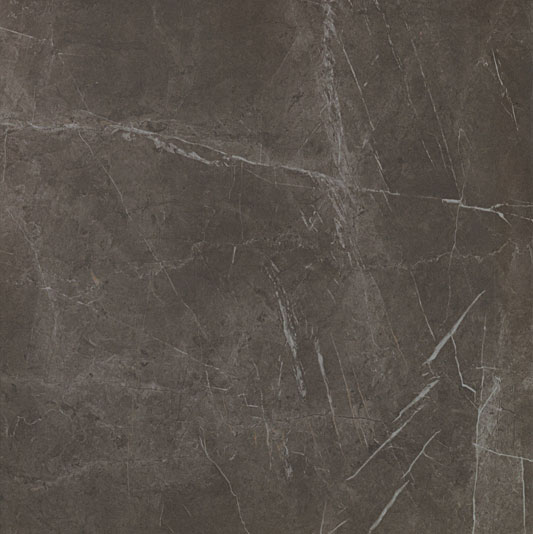
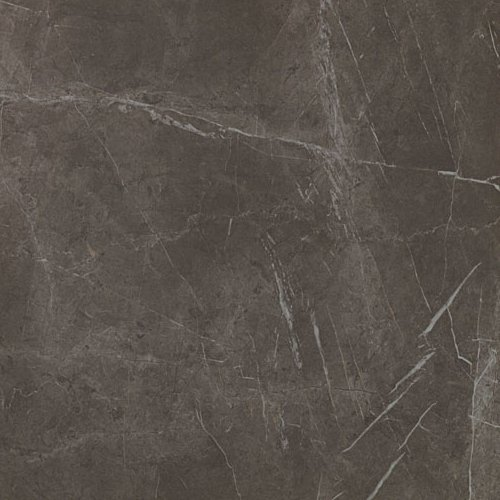
DA migliorare la Camera

diff --git a/GLwidget.cpp b/GLwidget.cpp
@@ -58,7 +58,7 @@ GLWidget::GLWidget(CGrCamera* myCamera, QWidget *parent)
     , geometries(nullptr)
     , camera(myCamera)
     , cubeTexture(nullptr)
-    //, roomTexture(nullptr)
+    , roomTexture(nullptr)
     , zNear(0.1)
     , zFar(1300.0)
 {
@@ -211,20 +211,7 @@ GLWidget::initTextures() {
     const QImage negy = QImage(":/Pavimento.jpg").convertToFormat(QImage::Format_RGBA8888);
     const QImage posz = QImage(":/Pietra.jpg").convertToFormat(QImage::Format_RGBA8888);
     const QImage negz = QImage(":/Pietra.jpg").convertToFormat(QImage::Format_RGBA8888);
-/*
-    glGenTextures(1, &roomTexture);
-    glBindTexture(GL_TEXTURE_CUBE_MAP, roomTexture);
-    glTexImage2D(GL_TEXTURE_CUBE_MAP_POSITIVE_X, 0, GL_RGBA, posx.width(), posx.height(), 0, GL_RGBA, GL_UNSIGNED_BYTE, (void*) posx.bits());
-    glTexImage2D(GL_TEXTURE_CUBE_MAP_POSITIVE_Y, 0, GL_RGBA, posx.width(), posx.height(), 0, GL_RGBA, GL_UNSIGNED_BYTE, (void*) posy.bits());
-    glTexImage2D(GL_TEXTURE_CUBE_MAP_POSITIVE_Z, 0, GL_RGBA, posx.width(), posx.height(), 0, GL_RGBA, GL_UNSIGNED_BYTE, (void*) posz.bits());
-    glTexImage2D(GL_TEXTURE_CUBE_MAP_NEGATIVE_X, 0, GL_RGBA, posx.width(), posx.height(), 0, GL_RGBA, GL_UNSIGNED_BYTE, (void*) negx.bits());
-    glTexImage2D(GL_TEXTURE_CUBE_MAP_NEGATIVE_Y, 0, GL_RGBA, posx.width(), posx.height(), 0, GL_RGBA, GL_UNSIGNED_BYTE, (void*) negy.bits());
-    glTexImage2D(GL_TEXTURE_CUBE_MAP_NEGATIVE_Z, 0, GL_RGBA, posx.width(), posx.height(), 0, GL_RGBA, GL_UNSIGNED_BYTE, (void*) negz.bits());
-    glTexParameteri(GL_TEXTURE_CUBE_MAP, GL_TEXTURE_MIN_FILTER, GL_NEAREST);
-    glTexParameteri(GL_TEXTURE_CUBE_MAP, GL_TEXTURE_MAG_FILTER, GL_LINEAR);
-    glTexParameteri(GL_TEXTURE_CUBE_MAP, GL_TEXTURE_WRAP_S, GL_REPEAT);
-    glTexParameteri(GL_TEXTURE_CUBE_MAP, GL_TEXTURE_WRAP_T, GL_REPEAT);
-*/
+
     roomTexture = new QOpenGLTexture(QOpenGLTexture::TargetCubeMap);
     roomTexture->setSize(posx.width(), posx.height(), posx.depth());
     roomTexture->setFormat(QOpenGLTexture::RGBA8_UNorm);
@@ -249,16 +236,16 @@ GLWidget::initTextures() {
                          QOpenGLTexture::RGBA, QOpenGLTexture::UInt8,
                          negz.constBits(), Q_NULLPTR);
 
-    roomTexture->setWrapMode(QOpenGLTexture::ClampToEdge);
-    roomTexture->setMinificationFilter(QOpenGLTexture::LinearMipMapLinear);
-    roomTexture->setMagnificationFilter(QOpenGLTexture::LinearMipMapLinear);
-    roomTexture->generateMipMaps();
-    if(roomTexture->textureId() == 0)
-        exit(EXIT_FAILURE);
+//    roomTexture->setWrapMode(QOpenGLTexture::ClampToEdge);
+//    roomTexture->setMinificationFilter(QOpenGLTexture::LinearMipMapLinear);
+//    roomTexture->setMagnificationFilter(QOpenGLTexture::LinearMipMapLinear);
+//    roomTexture->generateMipMaps();
+//    if(roomTexture->textureId() == 0)
+//        exit(EXIT_FAILURE);
 
 //    roomTexture->setMinificationFilter(QOpenGLTexture::Nearest);
 //    roomTexture->setMagnificationFilter(QOpenGLTexture::Linear);
-//    roomTexture->setWrapMode(QOpenGLTexture::Repeat);
+    roomTexture->setWrapMode(QOpenGLTexture::Repeat);
     glEnable(GL_TEXTURE_CUBE_MAP_SEAMLESS);
 }
 
@@ -298,7 +285,6 @@ GLWidget::paintGL() {
 
     roomVertexBuf.bind();
     roomIndexBuf.bind();
-//    glBindTexture(GL_TEXTURE_CUBE_MAP, roomTexture);
     roomTexture->bind();
     mProgram.bind();
 
@@ -306,14 +292,13 @@ GLWidget::paintGL() {
     int vertexLocation = mProgram.attributeLocation("a_position");
     mProgram.enableAttributeArray(vertexLocation);
     mProgram.setAttributeBuffer("aPosition", GL_FLOAT, 0, 3, sizeof(QVector3D));
-
     mProgram.setUniformValue("uTexture", 0);
 
     model.setToIdentity();
-    model.translate(0.0, 0.0, 0.0);
-    model.scale(1.0);
-    model.translate(2.0, 2.0, 0.0);
+    model.scale(100.0);
+    model.translate(0.0, 1.0, 0.0);
     glDisable(GL_CULL_FACE);  // Disable back face culling
+
     mProgram.setUniformValue("mvp_matrix", projection*viewMatrix*model);
 
     // Draw cube geometry using indices from VBO 1

diff --git a/GLwidget.h b/GLwidget.h
@@ -95,12 +95,11 @@ protected:
 private:
     QOpenGLShaderProgram program;
     QOpenGLShaderProgram mProgram;
-    GeometryEngine* geometries;
-    CGrCamera* camera;
+    GeometryEngine*      geometries;
+    CGrCamera*           camera;
 
     QOpenGLTexture* cubeTexture;
     QOpenGLTexture* roomTexture;
-    //GLuint roomTexture;
     QOpenGLBuffer   roomVertexBuf;
     QOpenGLBuffer   roomIndexBuf;
 
